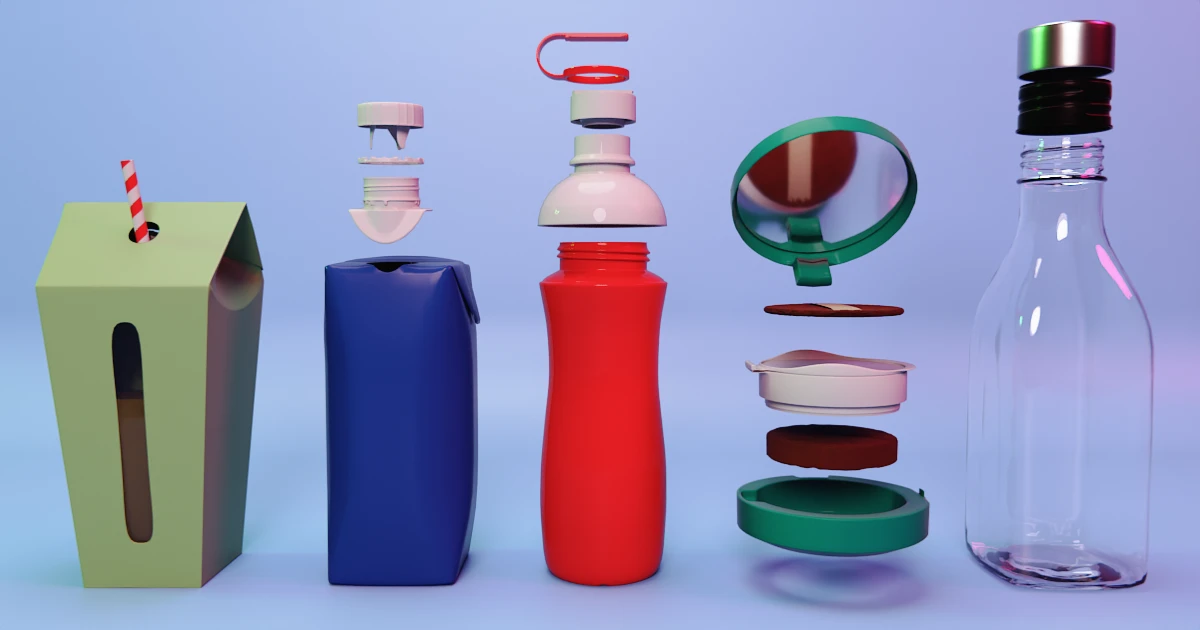
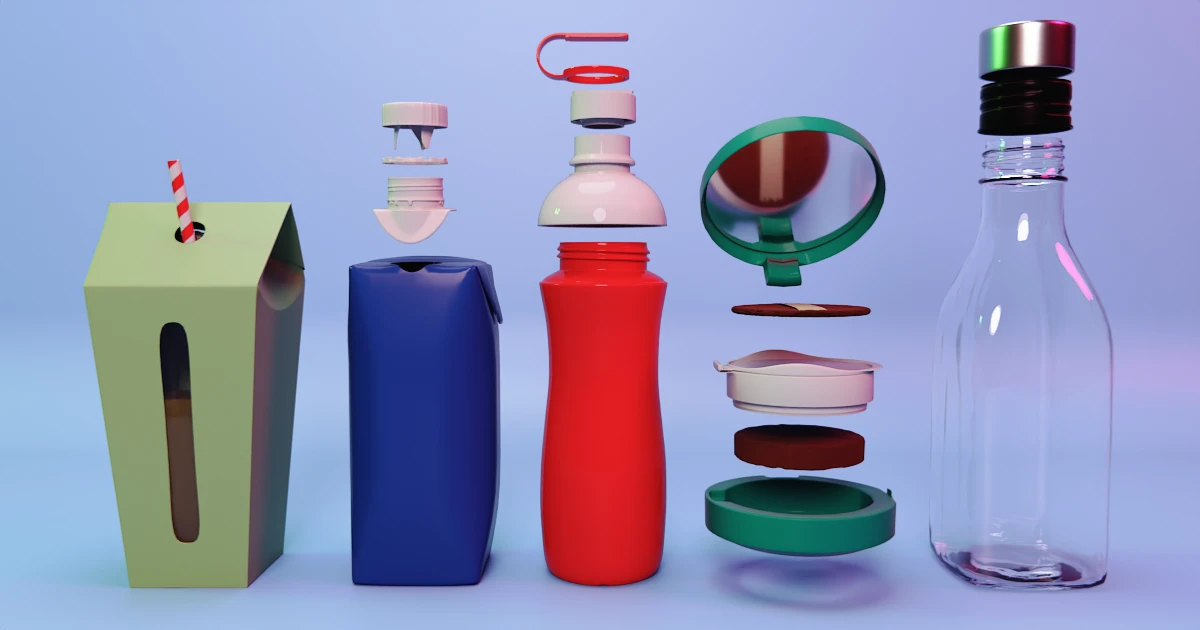
update

diff --git a/index.html b/index.html
@@ -3,14 +3,14 @@
 <head>
     <meta charset="UTF-8">
     <meta name="viewport" content="width=device-width, initial-scale=1.0">
-    <title data-i18n="doc_title">Portafolio Alvaro Perez</title>
-    <meta name="description" content="Especialista en modelado 3D Hard Surface, packaging y automatización con Geometry Nodes y Python." data-i18n="meta_desc">
+    <title data-i18n="doc_title">Alvaro Pérez | 3D & Technical Artist</title>
+    <meta name="description" content="Hard Surface 3D Modeling Specialist, Packaging & Automation using Geometry Nodes, scripts, and addons." data-i18n="meta_desc">
 
     <!-- Open Graph / Facebook / LinkedIn / WhatsApp / Telegram -->
     <meta property="og:type" content="website">
     <meta property="og:url" content="https://n4k3z.github.io/web/index.html">
-    <meta property="og:title" content="Portafolio Álvaro Pérez | 3D & Technical Artist">
-    <meta property="og:description" content="Especialista en modelado 3D Hard Surface, packaging y automatización con Geometry Nodes, scripts y addons.">
+    <meta property="og:title" content="Alvaro Pérez | 3D & Technical Artist">
+    <meta property="og:description" content="Hard Surface 3D Modeling Specialist, Packaging & Automation using Geometry Nodes, scripts, and addons.">
     <meta property="og:image" content="https://n4k3z.github.io/web/images/share-cover.webp">
     <meta property="og:image:type" content="image/webp">
     <meta property="og:site_name" content="Portafolio Álvaro Pérez">
@@ -18,11 +18,10 @@
     <!-- Twitter Cards -->
     <meta name="twitter:card" content="summary_large_image">
     <meta name="twitter:url" content="https://n4k3z.github.io/web/index.html">
-    <meta name="twitter:title" content="Portafolio Álvaro Pérez | 3D & Technical Artist">
-    <meta name="twitter:description" content="Especialista en modelado 3D Hard Surface, packaging y automatización con Geometry Nodes, scripts y addons.">
+    <meta name="twitter:title" content="Alvaro Pérez | 3D & Technical Artist">
+    <meta name="twitter:description" content="Hard Surface 3D Modeling Specialist, Packaging & Automation using Geometry Nodes, scripts, and addons.">
     <meta name="twitter:image" content="https://n4k3z.github.io/web/images/share-cover.webp">
     
-    <!-- Evita el parpadeo de tema aplicando la clase antes de renderizar el DOM -->
     <script>
         (function() {
             var theme = localStorage.getItem("theme") || "dark";
@@ -49,7 +48,6 @@
                 <a href="#experience" data-i18n="nav_personal">Personal</a>
                 <a href="#skills" data-i18n="nav_skills">Habilidades</a>
             </li>
-            <!-- Fila 2 con enlaces centrados e iconos alineados a la derecha -->
             <li class="menu-row">
                 <div class="row-center-items">
                     <a href="#Softwares" data-i18n="nav_software">Softwares</a>
@@ -71,8 +69,8 @@
     <div class="container">
         <main>
             <section id="resumen">
-                <h1>Alvaro Pérez</h1>
-                <p id="quote_text">"Especialista en modelado 3D con amplia experiencia en la industria del packaging. Destaco en el modelado Hard Surface y en el desarrollo de métodos y herramientas para optimizar la producción. Apasionado por explorar nuevas oportunidades y tecnologías, en constante aprendizaje y comprometido con los proyectos en los que me me involucro."</p>
+                <h1>Alvaro Pérez | 3D & Technical Artist</h1>
+                <p id="quote_text">"Especialista en modelado 3D con amplia experiencia en la industria del packaging. Destaco en el modelado Hard Surface y en el desarrollo de métodos y herramientas para optimizar la producción. Apasionado por explorar nuevas oportunidades y tecnologías, en constante aprendizaje y comprometido con los proyectos en los que me involucro."</p>
                 
                 <h2 data-i18n="resumen_title">En resumen</h2>
                 <p data-i18n="resumen_intro">Para ahorrarte tiempo de lectura y comprobar de un vistazo si mi perfil encaja con lo que buscas, te resumo mis habilidades clave:</p>
@@ -91,30 +89,30 @@
                 <div class="slider slider1">
                     <button class="prev">&#10094;</button>
                     <div class="slides">
-                        <img src="images/slider1/image01.webp" alt="Imagen 1" loading="lazy">
-                        <img src="images/slider1/image02.webp" alt="Imagen 2" loading="lazy">
-                        <img src="images/slider1/image03.webp" alt="Imagen 3" loading="lazy">
-                        <img src="images/slider1/image04.webp" alt="Imagen 4" loading="lazy">
-                        <img src="images/slider1/image05.webp" alt="Imagen 5" loading="lazy">
-                        <img src="images/slider1/image06.webp" alt="Imagen 6" loading="lazy">
-                        <img src="images/slider1/image07.webp" alt="Imagen 7" loading="lazy">
-                        <img src="images/slider1/image08.webp" alt="Imagen 8" loading="lazy">
-                        <img src="images/slider1/image09.webp" alt="Imagen 9" loading="lazy">
-                        <img src="images/slider1/image10.webp" alt="Imagen 10" loading="lazy">
-                        <img src="images/slider1/image11.webp" alt="Imagen 11" loading="lazy">
-                        <img src="images/slider1/image12.webp" alt="Imagen 12" loading="lazy">
-                        <img src="images/slider1/image13.webp" alt="Imagen 13" loading="lazy">
-                        <img src="images/slider1/image14.webp" alt="Imagen 14" loading="lazy">
-                        <img src="images/slider1/image15.webp" alt="Imagen 15" loading="lazy">
-                        <img src="images/slider1/image16.webp" alt="Imagen 16" loading="lazy">
-                        <img src="images/slider1/image17.webp" alt="Imagen 17" loading="lazy">
-                        <img src="images/slider1/image18.webp" alt="Imagen 18" loading="lazy">
-                        <img src="images/slider1/image19.webp" alt="Imagen 19" loading="lazy">
-                        <img src="images/slider1/image20.webp" alt="Imagen 20" loading="lazy">
-                        <img src="images/slider1/image21.webp" alt="Imagen 21" loading="lazy">
-                        <img src="images/slider1/image22.webp" alt="Imagen 22" loading="lazy">
-                        <img src="images/slider1/image23.webp" alt="Imagen 23" loading="lazy">
-                        <img src="images/slider1/image24.webp" alt="Imagen 24" loading="lazy">
+                        <img src="images/slider1/image01.webp" alt="Trabajo de portfolio 1" loading="lazy">
+                        <img src="images/slider1/image02.webp" alt="Trabajo de portfolio 2" loading="lazy">
+                        <img src="images/slider1/image03.webp" alt="Trabajo de portfolio 3" loading="lazy">
+                        <img src="images/slider1/image04.webp" alt="Trabajo de portfolio 4" loading="lazy">
+                        <img src="images/slider1/image05.webp" alt="Trabajo de portfolio 5" loading="lazy">
+                        <img src="images/slider1/image06.webp" alt="Trabajo de portfolio 6" loading="lazy">
+                        <img src="images/slider1/image07.webp" alt="Trabajo de portfolio 7" loading="lazy">
+                        <img src="images/slider1/image08.webp" alt="Trabajo de portfolio 8" loading="lazy">
+                        <img src="images/slider1/image09.webp" alt="Trabajo de portfolio 9" loading="lazy">
+                        <img src="images/slider1/image10.webp" alt="Trabajo de portfolio 10" loading="lazy">
+                        <img src="images/slider1/image11.webp" alt="Trabajo de portfolio 11" loading="lazy">
+                        <img src="images/slider1/image12.webp" alt="Trabajo de portfolio 12" loading="lazy">
+                        <img src="images/slider1/image13.webp" alt="Trabajo de portfolio 13" loading="lazy">
+                        <img src="images/slider1/image14.webp" alt="Trabajo de portfolio 14" loading="lazy">
+                        <img src="images/slider1/image15.webp" alt="Trabajo de portfolio 15" loading="lazy">
+                        <img src="images/slider1/image16.webp" alt="Trabajo de portfolio 16" loading="lazy">
+                        <img src="images/slider1/image17.webp" alt="Trabajo de portfolio 17" loading="lazy">
+                        <img src="images/slider1/image18.webp" alt="Trabajo de portfolio 18" loading="lazy">
+                        <img src="images/slider1/image19.webp" alt="Trabajo de portfolio 19" loading="lazy">
+                        <img src="images/slider1/image20.webp" alt="Trabajo de portfolio 20" loading="lazy">
+                        <img src="images/slider1/image21.webp" alt="Trabajo de portfolio 21" loading="lazy">
+                        <img src="images/slider1/image22.webp" alt="Trabajo de portfolio 22" loading="lazy">
+                        <img src="images/slider1/image23.webp" alt="Trabajo de portfolio 23" loading="lazy">
+                        <img src="images/slider1/image24.webp" alt="Trabajo de portfolio 24" loading="lazy">
                     </div>
                     <button class="next">&#10095;</button>
                 </div>
@@ -165,19 +163,18 @@
                 
                 <p><strong data-i18n="addon3_label">Compresor de Texturas:</strong> <span data-i18n="addon3_text">Optimiza el tamaño de las texturas generadas tras el bake preservando la calidad visual.</span></p>
 
-                <!-- Contenedor ajustado para móviles en 1 sola fila horizontal -->
                 <div class="addons-container" style="display: flex; gap: 10px; justify-content: space-between; align-items: flex-start; margin-top: 20px; flex-wrap: nowrap;">
                     <div class="addon-item" style="flex: 1; min-width: 0; text-align: center;">
                         <p><strong><a href="https://github.com/n4k3z/AssetBatchManager" target="_blank" rel="noopener noreferrer">Asset Batch Manager</a></strong></p>
-                        <img src="images/addon1.png" alt="Asset Batch Manager" loading="lazy" style="width: 100%; height: auto;">
+                        <img src="images/addon1.png" alt="Addon Asset Batch Manager" loading="lazy" style="width: 100%; height: auto;">
                     </div>
                     <div class="addon-item" style="flex: 1; min-width: 0; text-align: center;">
                         <p><strong><a href="https://github.com/n4k3z/gltfexport" target="_blank" rel="noopener noreferrer">GLTF Export</a></strong></p>
-                        <img src="images/addon2.png" alt="GLTF Export" loading="lazy" style="width: 100%; height: auto;">
+                        <img src="images/addon2.png" alt="Addon GLTF Export" loading="lazy" style="width: 100%; height: auto;">
                     </div>
                     <div class="addon-item" style="flex: 1; min-width: 0; text-align: center;">
                         <p><strong data-i18n="addon3_item_title">Compresor de Texturas</strong></p>
-                        <img src="images/addon3.png" alt="Compresor de Texturas" loading="lazy" style="width: 100%; height: auto;">
+                        <img src="images/addon3.png" alt="Addon Compresor de Texturas" loading="lazy" style="width: 100%; height: auto;">
                     </div>
                 </div>
 
@@ -186,7 +183,7 @@
                 <p data-i18n="exp_prof_app_p3">Admite la importación de archivos .blend y .glb, siendo el .blend el más configurable ya que la app lee sus modificadores de Geometry Nodes. Esto permite cambiar partes del producto, modificar materiales o detectar las etiquetas para subir imágenes nuevas y reemplazarlas al instante. Funciona tanto para el renderizado individual como en lote, aplicando la misma configuración a múltiples archivos a la vez para agilizar el trabajo.</p>
 
                 <div class="app-container" style="text-align: center; margin-top: 20px;">
-                    <img src="images/RenderApp.png" alt="RenderApp Qt" loading="lazy" style="max-width: 100%; height: auto;">
+                    <img src="images/RenderApp.png" alt="RenderApp Qt interface" loading="lazy" style="max-width: 100%; height: auto;">
                 </div>
             </section>
 
@@ -208,19 +205,19 @@
                 <div class="slider slider2">
                     <button class="prev additional-prev">&#10094;</button>
                     <div class="slides">
-                        <img src="images/slider2/image01.webp" alt="Imagen 1" loading="lazy">
-                        <img src="images/slider2/image02.webp" alt="Imagen 2" loading="lazy">
-                        <img src="images/slider2/image03.webp" alt="Imagen 3" loading="lazy">
-                        <img src="images/slider2/image04.webp" alt="Imagen 4" loading="lazy">
-                        <img src="images/slider2/image05.webp" alt="Imagen 5" loading="lazy">
-                        <img src="images/slider2/image06.webp" alt="Imagen 6" loading="lazy">
-                        <img src="images/slider2/image07.webp" alt="Imagen 7" loading="lazy">
-                        <img src="images/slider2/image08.webp" alt="Imagen 8" loading="lazy">
-                        <img src="images/slider2/image09.webp" alt="Imagen 9" loading="lazy">
-                        <img src="images/slider2/image10.webp" alt="Imagen 10" loading="lazy">
-                        <img src="images/slider2/image11.webp" alt="Imagen 11" loading="lazy">
-                        <img src="images/slider2/image12.webp" alt="Imagen 12" loading="lazy">
-                        <img src="images/slider2/image13.webp" alt="Imagen 13" loading="lazy">
+                        <img src="images/slider2/image01.webp" alt="Proyecto personal 1" loading="lazy">
+                        <img src="images/slider2/image02.webp" alt="Proyecto personal 2" loading="lazy">
+                        <img src="images/slider2/image03.webp" alt="Proyecto personal 3" loading="lazy">
+                        <img src="images/slider2/image04.webp" alt="Proyecto personal 4" loading="lazy">
+                        <img src="images/slider2/image05.webp" alt="Proyecto personal 5" loading="lazy">
+                        <img src="images/slider2/image06.webp" alt="Proyecto personal 6" loading="lazy">
+                        <img src="images/slider2/image07.webp" alt="Proyecto personal 7" loading="lazy">
+                        <img src="images/slider2/image08.webp" alt="Proyecto personal 8" loading="lazy">
+                        <img src="images/slider2/image09.webp" alt="Proyecto personal 9" loading="lazy">
+                        <img src="images/slider2/image10.webp" alt="Proyecto personal 10" loading="lazy">
+                        <img src="images/slider2/image11.webp" alt="Proyecto personal 11" loading="lazy">
+                        <img src="images/slider2/image12.webp" alt="Proyecto personal 12" loading="lazy">
+                        <img src="images/slider2/image13.webp" alt="Proyecto personal 13" loading="lazy">
                     </div>
                     <button class="next additional-next">&#10095;</button>
                 </div>
@@ -315,10 +312,10 @@
 
             <section id="contact">
                 <h2 data-i18n="contact_title">Contacto</h2>
-                <a href="https://www.linkedin.com/in/alvaroperez3d/">
+                <a href="https://www.linkedin.com/in/alvaroperez3d/" aria-label="Perfil de LinkedIn">
                     <img src="images/sofwares/inlogo.png" alt="LinkedIn" loading="lazy">
                 </a>
-                <a href="mailto:aperor@proton.me">
+                <a href="mailto:aperor@proton.me" aria-label="Enviar correo electrónico">
                     <img src="images/sofwares/mail.png" alt="Enviar correo" loading="lazy">
                 </a>
             </section>                    
